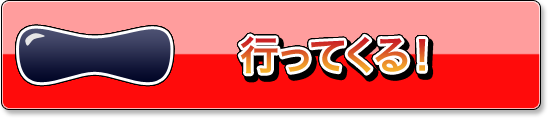
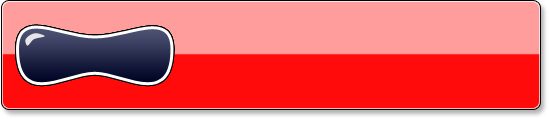
投稿ボタンの文字をevent_nameにした

Changed region(s): [[0.4335, 0.2773, 0.8051, 0.7059]]

diff --git a/app/assets/stylesheets/common.css.scss b/app/assets/stylesheets/common.css.scss
@@ -93,9 +93,29 @@ body{
 ul.events{
 	list-style:none;
 	padding-left:50px;
-	>li{
+	>li.eventli{
 		padding-bottom:14px;
 		cursor: pointer;
+		position:relative;
+		>p{
+			position:absolute;
+			top:20px;
+			left:200px;
+			font-size:42px;
+			font-family: 'ヒラギノ角ゴ Std W6', 'HiraKakuStd-W6', 'ヒラギノ角ゴ Pro W6', 'HiraKakuPro-W6', 'ヒラギノ角ゴ ProN W6', 'HiraKakuProN-W6', serif;
+			-webkit-text-stroke-color:#000;
+			-webkit-text-stroke-width:6px;
+			text-shadow: 3px 3px 0 #000;
+		}
+		>p::after{
+			content: attr(data-text);
+			position:absolute;
+			left:0;
+			color:#eec400;
+			-webkit-text-fill-color:#eec400;
+			-webkit-text-stroke-color:#fff;
+			-webkit-text-stroke-width:0px;
+		}
 	}
 }
 

diff --git a/db/schema.rb b/db/schema.rb
@@ -35,7 +35,7 @@ ActiveRecord::Schema.define(:version => 20120506075919) do
     t.integer  "user_id"
     t.datetime "created_at",    :null => false
     t.datetime "updated_at",    :null => false
-    t.integer  "event_name_id", :null => false
+    t.integer  "event_name_id"
   end
 
   add_index "posts", ["user_id"], :name => "idx_user_id_on_posts"

diff --git a/app/models/event_name.rb b/app/models/event_name.rb
@@ -1,6 +1,6 @@
 class EventName < ActiveRecord::Base
   validates_presence_of :name
-  validates_length_of :name, :in => (1..10)
+  validates_length_of :name, :in => (1..7)
   attr_accessible :event_id, :name, :user_id
   belongs_to :event
   belongs_to :user

diff --git a/app/controllers/posts_controller.rb b/app/controllers/posts_controller.rb
@@ -14,6 +14,7 @@ class PostsController < ApplicationController
   def new
     @post = Post.new
     @events = Event.all
+    @event_names = EventName.list current_user
 
     respond_to do |format|
       format.html # new.html.erb
